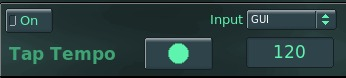
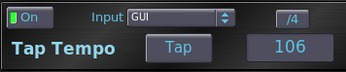
modified:   doc/help/help.html 	modified:   doc/help/imagenes/tap.jpg 	modified:   src/rakarrack.cxx 	modified:   src/rakarrack.fl 	modified:   src/rakarrack.h 	modified:   src/rkrMIDI.C

diff --git a/doc/help/help.html b/doc/help/help.html
@@ -9,6 +9,7 @@
 
 
 
+
   
   <meta http-equiv="CONTENT-TYPE" content="text/html; charset=utf-8"><title>Rakarrack Help</title>
   
@@ -2106,8 +2107,7 @@ range is shown in red.</p>
 <p>The imput choice widget select the incoming signal:</p>
 
 <p>GUI can be the computer keyboard key "G" or the mouse clicking on
-the record
-button.</p>
+the "Tap" button.</p>
 
 <p>MIDI signal is triggered each MIDI Note On message is incomming.</p>
 <p>Jack Transport read the beats per minute at the jack start
@@ -2116,15 +2116,17 @@ read this value).<br>
 </p>
 
 
+
+
+
 <p>Sucesive tempo signals are displayed each time a signal is received
 and
 the Tempo parameter is updated on all the effects that has the "On"
-state.</p>
-
-<p>Tap Tempo has an automatic reset timeout, 8 seconds after the last
-signal. This need to be enabled in the window settings.</p>
-<p>Tap Tempo set all the effect Tempo parameters that has the state in "On" to the value readed or generated.<br>
+state. Tap Tempo has an automatic reset timeout, 8 seconds after the last
+signal. This need to be enabled in the window settings. Tap Tempo set all the effect Tempo parameters that has the state in "On" to the value readed or generated.</p>
+<p>/4 Divide the Tempo value by four and update the effects.<br>
 </p>
+
 
 
 <p><a href="help.html#top">Contents</a></p>
@@ -2943,7 +2945,8 @@ Westerfeld, ArtsCompressor Authors</p>
 121= Tap Tempo On/Off<br>
 122= MIDI Converter On/Off<br>
 123= Tuner On/Off<br>
-124= Fx On On/Off</td>
+124= Fx On On/Off<br>
+125= TapTempo /4</td>
     </tr>
     <tr>
       <td> <br>

diff --git a/src/rakarrack.h b/src/rakarrack.h
@@ -2665,6 +2665,11 @@ private:
   static void cb_T_SEL(Fl_Choice*, void*);
   static Fl_Menu_Item menu_T_SEL[];
 public:
+  Fl_Button *T_DIV;
+private:
+  void cb_T_DIV_i(Fl_Button*, void*);
+  static void cb_T_DIV(Fl_Button*, void*);
+public:
   Fl_Button *T_BUT;
 private:
   void cb_T_BUT_i(Fl_Button*, void*);

diff --git a/src/rkrMIDI.C b/src/rkrMIDI.C
@@ -372,7 +372,8 @@ else
    case 124:
     if(inoff) Bypass = 1; else Bypass = 0;
      break; 
-
+   case 125:
+     break;   
 
    }   
 
@@ -516,6 +517,8 @@ RKR::checkonoff(int miraque)
    case 124:
      if (Bypass) return 0;
      break; 
+   case 125:
+     break;
 
 }   
 return(1);
